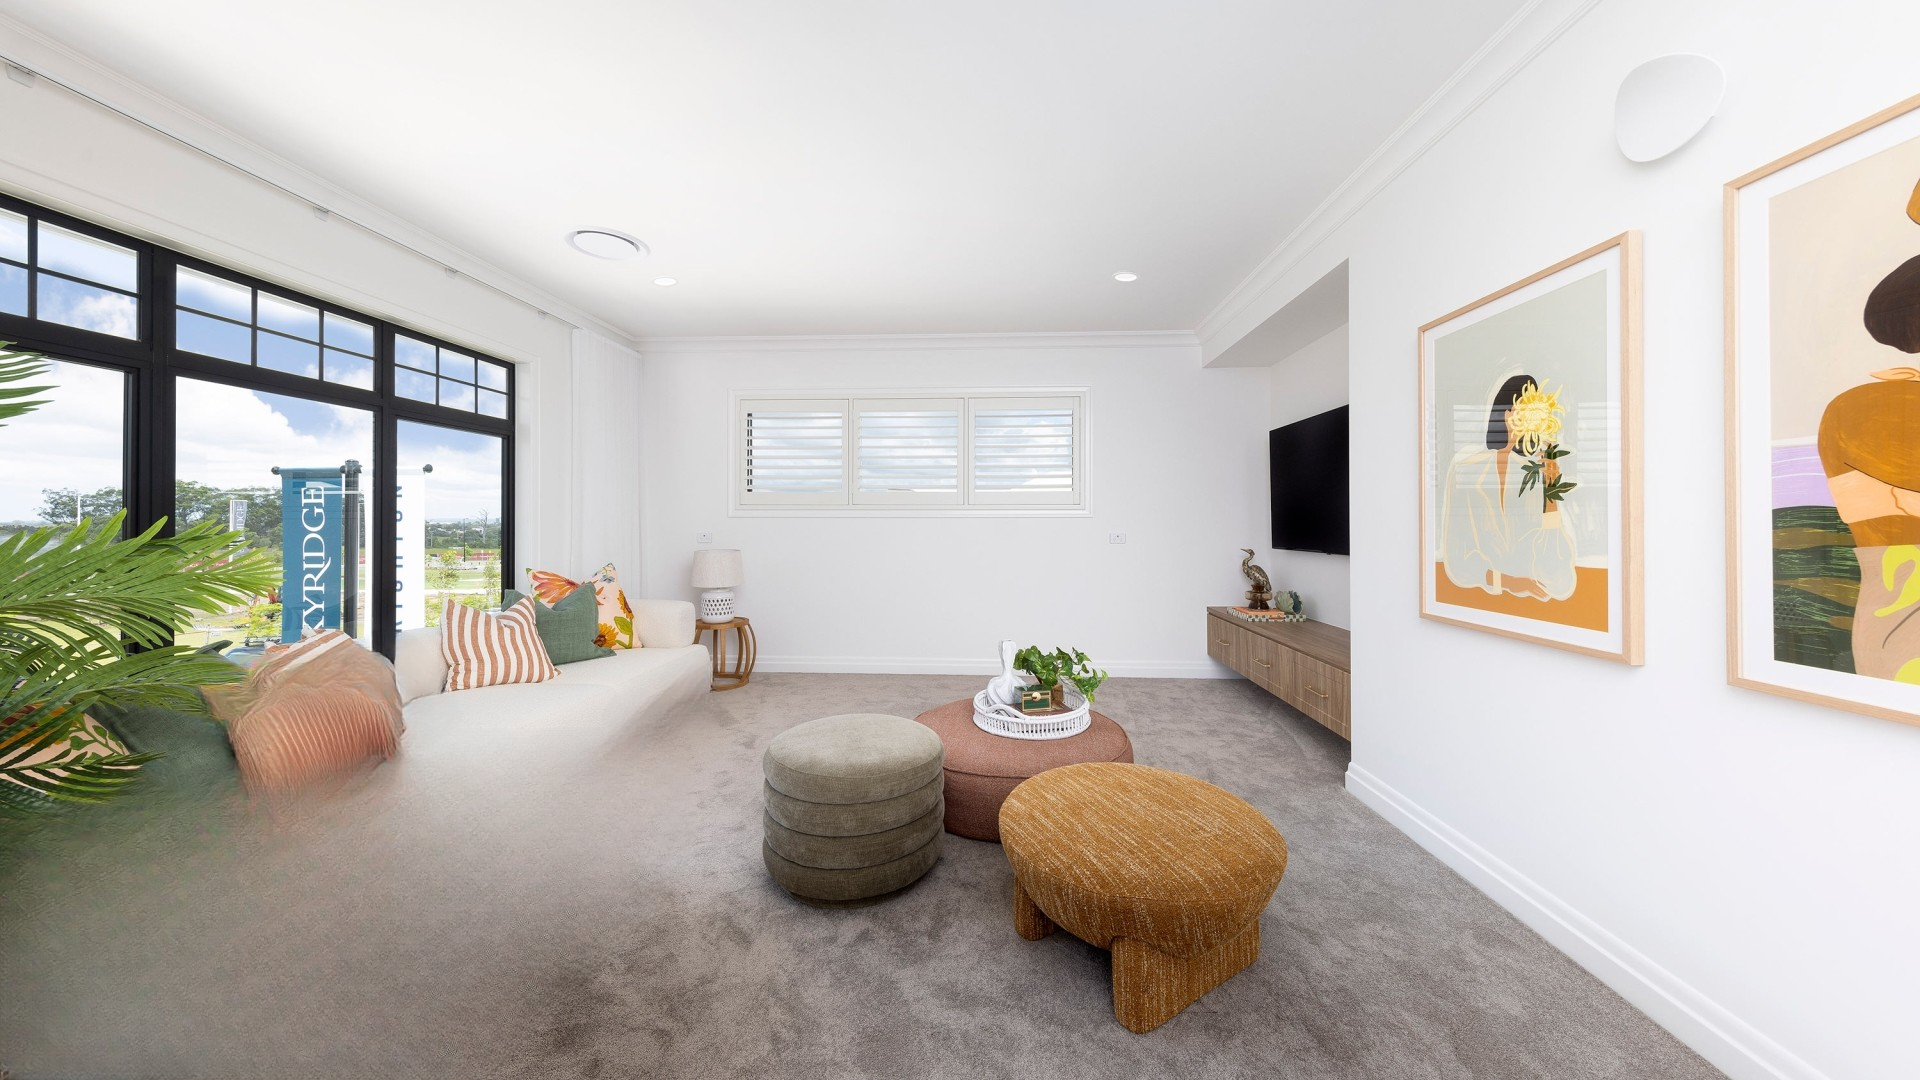
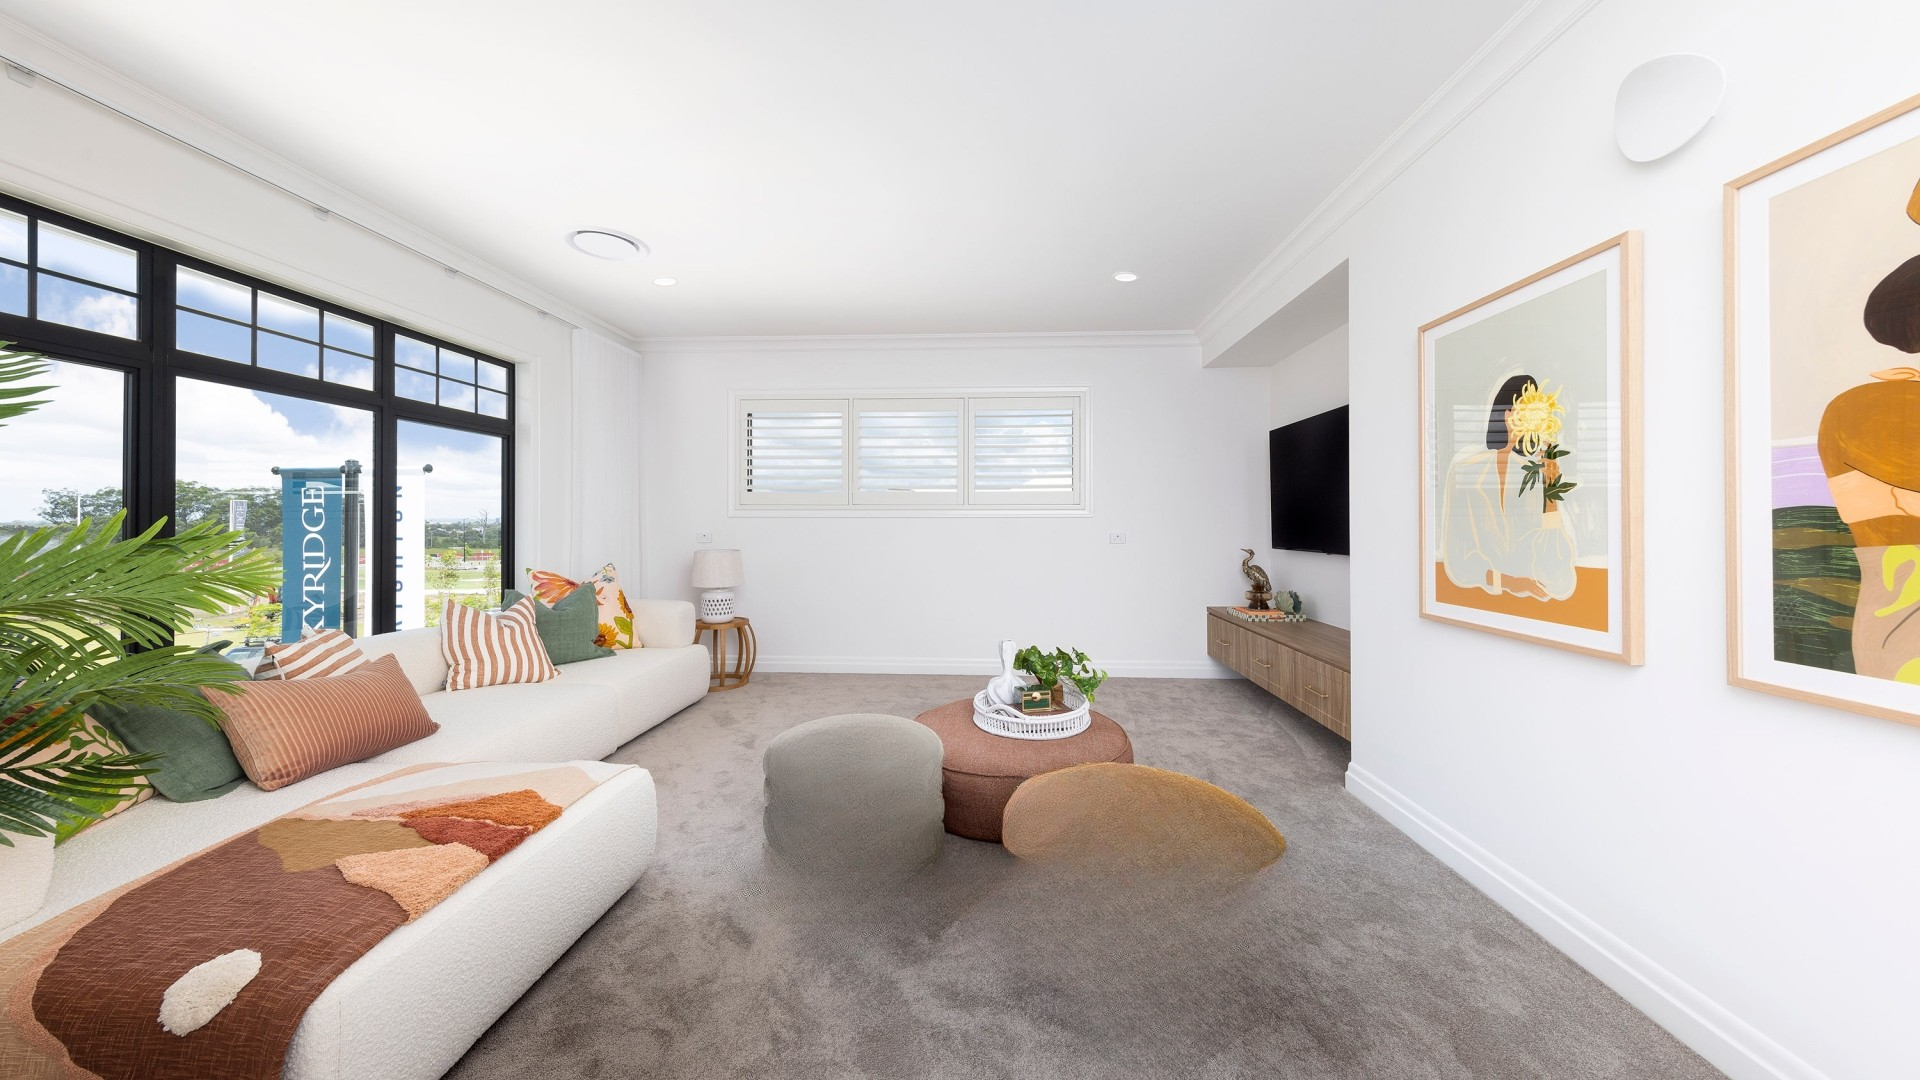
did some more bs

Changed region(s): [[0.0, 0.5806, 0.375, 1.0], [0.375, 0.6722, 0.6875, 1.0]]

diff --git a/TestModules/src/utils/MaskRefiner.py b/TestModules/src/utils/MaskRefiner.py
@@ -1,36 +1,55 @@
 import cv2
 import numpy as np
+import logging
+
+logger = logging.getLogger(__name__)
 
 class MaskRefiner:
     """
-    Responsible for post-processing and refining segmentation masks.
-    Prepares masks for downstream tasks like inpainting by applying
-    morphological operations (e.g., dilation to avoid halo effects).
+    Intelligently refines and dilates masks using Aggressive Depth-Guided Clipping.
+    Prevents mask bleeding by comparing EVERY pixel to the depth of the user's click.
     """
-    def __init__(self):
-        pass
+    def __init__(self, depth_tolerance: int = 20):
+        # The allowed depth difference (0-255 scale) before a pixel is considered 'background'
+        self.depth_tolerance = depth_tolerance
+        logger.info(f"Initialized MaskRefiner with depth tolerance {depth_tolerance}")
 
-    def dilate_mask(self, mask: np.ndarray, pixels: int = 8) -> np.ndarray:
-        """
-        Expands the mask by a given number of pixels using dilation.
-        Uses a circular/elliptical kernel for smooth, organic expansion.
-        """
-        if pixels <= 0:
-            return mask
-            
-        # Ensure kernel size is an odd number for perfect symmetry
-        kernel_size = int(pixels)
-        if kernel_size % 2 == 0:
-            kernel_size += 1
-            
-        # Create a circular (ellipse) kernel instead of a square one!
-        kernel = cv2.getStructuringElement(cv2.MORPH_ELLIPSE, (kernel_size, kernel_size))
-        
-        # Convert boolean mask to uint8 for OpenCV
-        mask_uint8 = mask.astype(np.uint8)
-        
-        # Apply morphological dilation
-        dilated_mask = cv2.dilate(mask_uint8, kernel, iterations=1)
-        
-        # Convert back to boolean mask
-        return dilated_mask.astype(bool)
+    def expand_and_clip(self, original_mask: np.ndarray, depth_map: np.ndarray, expand_pixels: int, click_x: int, click_y: int) -> np.ndarray:
+        # 1. Normalize mask to uint8
+        mask_uint8 = original_mask.astype(np.uint8)
+        if mask_uint8.max() == 1:
+            mask_uint8 = mask_uint8 * 255
+
+        # 2. Blind Dilation (Expand everywhere)
+        if expand_pixels > 0:
+            kernel_size = expand_pixels * 2 + 1
+            kernel = cv2.getStructuringElement(cv2.MORPH_ELLIPSE, (kernel_size, kernel_size))
+            dilated_mask = cv2.dilate(mask_uint8, kernel, iterations=1)
+        else:
+            dilated_mask = mask_uint8.copy()
+
+        # 3. Depth Normalization
+        if len(depth_map.shape) == 3:
+            depth_map = depth_map[:, :, 0]
+
+        # 4. Get Anchor Depth (The exact depth of the user's click)
+        # We use a 5x5 window around the click to be immune to single-pixel noise
+        h, w = depth_map.shape
+        x_min, x_max = max(0, click_x - 2), min(w, click_x + 3)
+        y_min, y_max = max(0, click_y - 2), min(h, click_y + 3)
+        anchor_depth = np.median(depth_map[y_min:y_max, x_min:x_max])
+
+        final_mask = dilated_mask.copy()
+
+        # 5. AGGRESSIVE DEPTH CLIPPING (The Fix!)
+        # We scan the ENTIRE mask. We don't trust SAM anymore.
+        # In MiDaS depth maps: lower value = further away.
+        # If ANY pixel is significantly further away than the anchor, it gets deleted!
+        background_mask = (dilated_mask > 0) & (depth_map < (anchor_depth - self.depth_tolerance))
+
+        # Zero out the background pixels
+        final_mask[background_mask] = 0
+
+        logger.info(f"[MaskRefiner] Anchor Depth: {anchor_depth}. Aggressively clipped {np.sum(background_mask)} background pixels.")
+
+        return final_mask

diff --git a/TestModules/src/core/objectRemover.py b/TestModules/src/core/objectRemover.py
@@ -4,6 +4,7 @@ import logging
 import numpy as np
 from PIL import Image
 from utils.DebugImageSaver import DebugImageSaver
+from utils.MaskRefiner import MaskRefiner
 
 # Configure logging
 logger = logging.getLogger(__name__)
@@ -15,6 +16,7 @@ from core.interfaces import IInpainter
 from ai_engines.segmentation.SamImageAdapter import SamImageAdapter
 from ai_engines.inpainting.HybridInpainter import HybridInpainter
 from routing.boundary_variance_strategy import BoundaryVarianceRoutingStrategy
+from routing.gradient_variance_routing_strategy import GradientVarianceRoutingStrategy
 
 class ObjectRemover:
     def __init__(self):
@@ -26,6 +28,7 @@ class ObjectRemover:
         self.depth_facade = OptimizedDepthFacade(threshold=100)
         self.sam_adapter = SamImageAdapter()
         self.router = BoundaryVarianceRoutingStrategy(sam_facade=self.sam)
+        self.mask_refiner = MaskRefiner(depth_tolerance=20)
 
         self.image_saver = DebugImageSaver()
         
@@ -74,13 +77,27 @@ class ObjectRemover:
             x=x, y=y
         )
         
-        print(f"[ObjectRemover] Requesting mask from SAM at ({x}, {y})...")
-        mask = self.sam.get_mask_at_point(
+        # --- שלב 1: מבקשים מ-SAM מסכה צמודה והדוקה (0 הרחבה) ---
+        logger.info(f"Requesting TIGHT mask from SAM at ({x}, {y})...")
+        tight_mask = self.sam.get_mask_at_point(
             run_context['input_image'], 
             x, y, 
-            expand_pixels=run_context['expand_pixels'],
+            expand_pixels=0,  # <-- זה הקסם! אנחנו אוסרים על SAM לנפח
             use_broad_mask=run_context['use_broad_mask'] 
         )
+        self.image_saver.save("tight_mask", tight_mask)
+
+        # --- שלב 2: ניפוח וחיתוך חכם מבוסס עומק ---
+        logger.info("Refining mask using Aggressive Depth-Guided Clipping...")
+        mask = self.mask_refiner.expand_and_clip(
+            original_mask=tight_mask, 
+            depth_map=optimized_depth, 
+            expand_pixels=run_context['expand_pixels'],
+            click_x=x,   # התוספת החדשה: שולחים את נקודת העוגן לרפיינר
+            click_y=y
+        )
+        
+        # שמירת המסכה המדויקת לדיבוג
         self.image_saver.save("mask", mask)
 
         # ==========================================

diff --git a/TestModules/src/routing/boundary_variance_strategy.py b/TestModules/src/routing/boundary_variance_strategy.py
@@ -1,4 +1,3 @@
-# src/routing/boundary_variance_strategy.py
 import cv2
 import numpy as np
 import logging
@@ -22,9 +21,10 @@ class BoundaryVarianceRoutingStrategy(ISegmentationRoutingStrategy):
         pixel_depth = raw_depth[y, x, 0] if len(raw_depth.shape) == 3 else raw_depth[y, x]
         depth_ratio = float(pixel_depth) / 255.0
 
-        # 1. Probe the object using SAM
+        # 1. Probe the object using SAM 
+        # (use_broad_mask MUST be False here to avoid grabbing background objects)
         logger.info(f"Fetching probe mask at ({x}, {y}) for Boundary Analysis...")
-        probe_mask = self.sam.get_mask_at_point(adapted_depth, x, y, expand_pixels=0, use_broad_mask=True)
+        probe_mask = self.sam.get_mask_at_point(adapted_depth, x, y, expand_pixels=0, use_broad_mask=False)
         
         mask_uint8 = probe_mask.astype(np.uint8)
         
@@ -50,11 +50,14 @@ class BoundaryVarianceRoutingStrategy(ISegmentationRoutingStrategy):
         
         is_3d_object = boundary_variance > self.boundary_var_thresh
 
+        # ==========================================
+        # CRITICAL FIX: Routing Context Configuration
+        # ==========================================
         context = {
-            'input_image': adapted_depth if is_3d_object else rgb_image,
-            'sd_strength': 0.85 if is_3d_object else 0.50,
-            'use_broad_mask': is_3d_object,
-            'expand_pixels': int(30 + (depth_ratio * 60)) if is_3d_object else int(10 + (depth_ratio * 20))
+            'input_image': adapted_depth, # חזרנו למפת העומק שעבדה לך מצוין!
+            'sd_strength': 0.65,          # כוח מרוסן לאינפיינטינג
+            'use_broad_mask': False,      # מבקשים מ-SAM מסכה מדויקת של הפוף בלבד
+            'expand_pixels': int(30 + (depth_ratio * 60)) # מנפחים לפי המרחק (והשומר ראש יגן על השולחן)
         }
 
         logger.info(f"[ROUTER] Decision: {'3D Object' if is_3d_object else 'Flat Surface'} | Output: {context}")

diff --git a/TestModules/src/ai_engines/inpainting/HybridInpainter.py b/TestModules/src/ai_engines/inpainting/HybridInpainter.py
@@ -47,7 +47,7 @@ class HybridInpainter(IInpainter):
         
         # 2. Inject an adaptive prompt suitable for textures instead of flat walls
         if 'prompt' not in sd_kwargs:
-            sd_kwargs['prompt'] = "seamless continuation of the surrounding textures, photorealistic interior design, extremely high detail"
+            sd_kwargs['prompt'] = "empty floor, empty background, seamless continuation of the surrounding textures, nothing inside, no objects, photorealistic"
 
         # Execute Stable Diffusion with dynamic parameters
         final_result = self.sd.inpaint(lama_result, mask, **sd_kwargs)

diff --git a/TestModules/src/ai_engines/segmentation/SamFacadeSingleton.py b/TestModules/src/ai_engines/segmentation/SamFacadeSingleton.py
@@ -72,7 +72,7 @@ class SamFacadeSingleton:
 
         # 5. Dynamic Expansion
         if expand_pixels > 0:
-            # הנה התיקון: אנחנו קוראים למחלקה שלך, ומעבירים 'pixels=' כמו שהיא מצפה לקבל!
+          
             best_mask = self.mask_refiner.dilate_mask(best_mask, pixels=expand_pixels)
             
         return best_mask